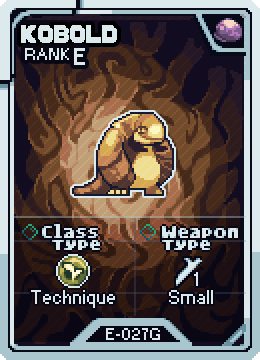
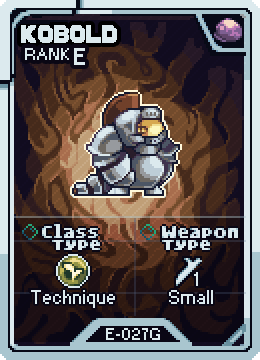
git commit -m "Added new character images and updated existing ones. Also made some fixes to the character details and Entes section."

Changed region(s): [[0.2462, 0.2444, 0.7077, 0.55]]

diff --git a/src/Components/SideBar/CharacterDetails.tsx b/src/Components/SideBar/CharacterDetails.tsx
@@ -1,9 +1,9 @@
 // CharacterDetails.tsx
 import { useState, useEffect, useMemo, useRef } from "react";
+import type { MouseEvent } from "react";
 import type { Character } from "../characters/database/db";
 import { characterManager } from "../characters/CharacterManager";
-import { deleteRemoteCharacter } from "../../services/Sync.tsx"
-
+import { deleteRemoteCharacter } from "../../services/Sync.tsx";
 
 interface Props {
   character: Character;
@@ -16,20 +16,31 @@ type StatKey = "hp" | "atk" | "slots";
 function CharacterDetails({ character, isActive, onSelect }: Props) {
   const [localChar, setLocalChar] = useState<Character>(character);
   const [openBreakdown, setOpenBreakdown] = useState<StatKey | null>(null);
+  const [nameDraft, setNameDraft] = useState(character.charName || "");
 
   const updateTimerRef = useRef<number | null>(null);
+  const nameDebounceRef = useRef<number | null>(null);
   const lastFetchIdRef = useRef(0);
+  const localCharRef = useRef<Character>(character);
+
+  useEffect(() => {
+    localCharRef.current = localChar;
+  }, [localChar]);
 
   /* =========================
-     INITIAL SYNC + EVENT SUBSCRIPTION 
+     INITIAL SYNC + EVENT SUBSCRIPTION
   ========================= */
   useEffect(() => {
     let mounted = true;
 
     async function init() {
       const fresh = await characterManager.getCharacter(character.id!);
-      if (mounted && fresh) setLocalChar(fresh);
+      if (mounted && fresh) {
+        setLocalChar(fresh);
+        setNameDraft(fresh.charName || "");
+      }
     }
+
     init();
 
     // Debounced handler for manager updates
@@ -54,23 +65,24 @@ function CharacterDetails({ character, isActive, onSelect }: Props) {
 
         try {
           const fresh = await characterManager.getCharacter(character.id!);
-          if (!mounted || fetchId !== lastFetchIdRef.current) return;
+          if (!mounted || fetchId !== lastFetchIdRef.current || !fresh) return;
+
+          const current = localCharRef.current;
 
           const isDifferent =
-            !fresh ||
-            !localChar ||
-            fresh.updatedAt !== localChar.updatedAt ||
-            JSON.stringify(fresh.bonusLog) !== JSON.stringify(localChar.bonusLog) ||
-            fresh.tempStatBonus.hp !== localChar.tempStatBonus.hp ||
-            fresh.tempStatBonus.atk !== localChar.tempStatBonus.atk ||
-            fresh.tempStatBonus.slots !== localChar.tempStatBonus.slots ||
-            fresh.charName !== localChar.charName ||
-            fresh.charImage !== localChar.charImage;
+            fresh.updatedAt !== current.updatedAt ||
+            JSON.stringify(fresh.bonusLog) !== JSON.stringify(current.bonusLog) ||
+            fresh.tempStatBonus.hp !== current.tempStatBonus.hp ||
+            fresh.tempStatBonus.atk !== current.tempStatBonus.atk ||
+            fresh.tempStatBonus.slots !== current.tempStatBonus.slots ||
+            fresh.charImage !== current.charImage ||
+            fresh.charName !== current.charName;
 
-          if (isDifferent && mounted && fresh) {
+          if (isDifferent) {
             setLocalChar(fresh);
           }
         } catch (error) {
+          // Intentionally ignore refresh errors here
         } finally {
           updateTimerRef.current = null;
         }
@@ -85,10 +97,14 @@ function CharacterDetails({ character, isActive, onSelect }: Props) {
       characterManager.off("characterUpdated", handler);
       characterManager.off("bonusUpdated", handler);
 
-      // Clean up pending timer
       if (updateTimerRef.current) {
         window.clearTimeout(updateTimerRef.current);
         updateTimerRef.current = null;
+      }
+
+      if (nameDebounceRef.current) {
+        window.clearTimeout(nameDebounceRef.current);
+        nameDebounceRef.current = null;
       }
     };
   }, [character.id]);
@@ -101,6 +117,23 @@ function CharacterDetails({ character, isActive, onSelect }: Props) {
       [field]: value,
     });
     if (fresh) setLocalChar(fresh);
+  }
+
+  function updateNameDebounced(value: string) {
+    setNameDraft(value);
+
+    if (nameDebounceRef.current) {
+      window.clearTimeout(nameDebounceRef.current);
+      nameDebounceRef.current = null;
+    }
+
+    nameDebounceRef.current = window.setTimeout(async () => {
+      const fresh = await characterManager.updateCharacter(character.id!, {
+        charName: value,
+      });
+
+      if (fresh) setLocalChar(fresh);
+    }, 500);
   }
 
   async function updateTempStat(stat: StatKey, value: number) {
@@ -149,24 +182,33 @@ function CharacterDetails({ character, isActive, onSelect }: Props) {
     };
   }, [localChar]);
 
+  /* =========================
+     Delete Character
+  ======================== */
+  async function handleDelete(e: MouseEvent) {
+    e.stopPropagation();
 
-	/* =========================
-		Delete Character
-		======================= */
+    const confirmed = confirm(
+      `Delete "${localChar.charName || "Unnamed Character"}"?`
+    );
 
-	async function handleDelete(e: React.MouseEvent) {
-		e.stopPropagation();
+    if (!confirmed) return;
 
-		const confirmed = confirm(
-			`Delete "${localChar.charName || "Unnamed Character"}"?`
-		);
+    if (nameDebounceRef.current) {
+      window.clearTimeout(nameDebounceRef.current);
+      nameDebounceRef.current = null;
+    }
 
-		if (!confirmed) return;
+    await deleteRemoteCharacter(localChar.id!);
+    await characterManager.deleteCharacter(character.id!);
+  }
 
-		await deleteRemoteCharacter(localChar.id!);
-
-		await characterManager.deleteCharacter(character.id!);
-	}
+  /* =========================
+     Sync draft name when character changes
+  ========================= */
+  useEffect(() => {
+    setNameDraft(localChar.charName || "");
+  }, [localChar.charName, localChar.id]);
 
   /* =========================
      RENDER
@@ -177,15 +219,14 @@ function CharacterDetails({ character, isActive, onSelect }: Props) {
         className={`character-header ${isActive ? "selected" : ""}`}
         onClick={onSelect}
       >
-				  <button
-						className="delete-btn"
-						onClick={handleDelete}
-					>
-						✕
-					</button>
+        <button className="delete-btn" onClick={handleDelete}>
+          ✕
+        </button>
+
         <span className="character-title">
           {localChar.charName || "Unnamed Character"}
         </span>
+
         <span className={`arrow ${isActive ? "open" : ""}`}>
           {isActive ? "▼" : "▲"}
         </span>
@@ -209,8 +250,17 @@ function CharacterDetails({ character, isActive, onSelect }: Props) {
         <input
           type="text"
           className="textInput"
-          value={localChar.charName}
-          onChange={(e) => updateField("charName", e.target.value)}
+          value={nameDraft}
+          onChange={(e) => updateNameDebounced(e.target.value)}
+          onBlur={() => {
+            if (nameDebounceRef.current) {
+              window.clearTimeout(nameDebounceRef.current);
+              nameDebounceRef.current = null;
+            }
+            if (nameDraft !== localCharRef.current.charName) {
+              updateField("charName", nameDraft);
+            }
+          }}
         />
 
         {(["hp", "atk", "slots"] as StatKey[]).map((stat) => (
@@ -257,14 +307,14 @@ function CharacterDetails({ character, isActive, onSelect }: Props) {
                   </tr>
                 </thead>
                 <tbody>
-                  {Object.entries(
-                    localChar.bonusLog?.[openBreakdown] || {}
-                  ).map(([enteID, value]) => (
-                    <tr key={enteID}>
-                      <td>{enteID}</td>
-                      <td>{value}</td>
-                    </tr>
-                  ))}
+                  {Object.entries(localChar.bonusLog?.[openBreakdown] || {}).map(
+                    ([enteID, value]) => (
+                      <tr key={enteID}>
+                        <td>{enteID}</td>
+                        <td>{value}</td>
+                      </tr>
+                    )
+                  )}
                 </tbody>
               </table>
             </div>

diff --git a/src/Components/characters/entes/EntesSection.tsx b/src/Components/characters/entes/EntesSection.tsx
@@ -47,7 +47,8 @@ function EntesSection({ characterId }: EntesSectionProps) {
   const SPECIAL_VARIANT_BASES: Record<string, string> = {
     E005: "E005A",
     E060: "E060A",
-    E052: "E052A"
+    E052: "E052A",
+    E123: "E123A"
   };
 
   function getSpecialBase(id: string): string | null {